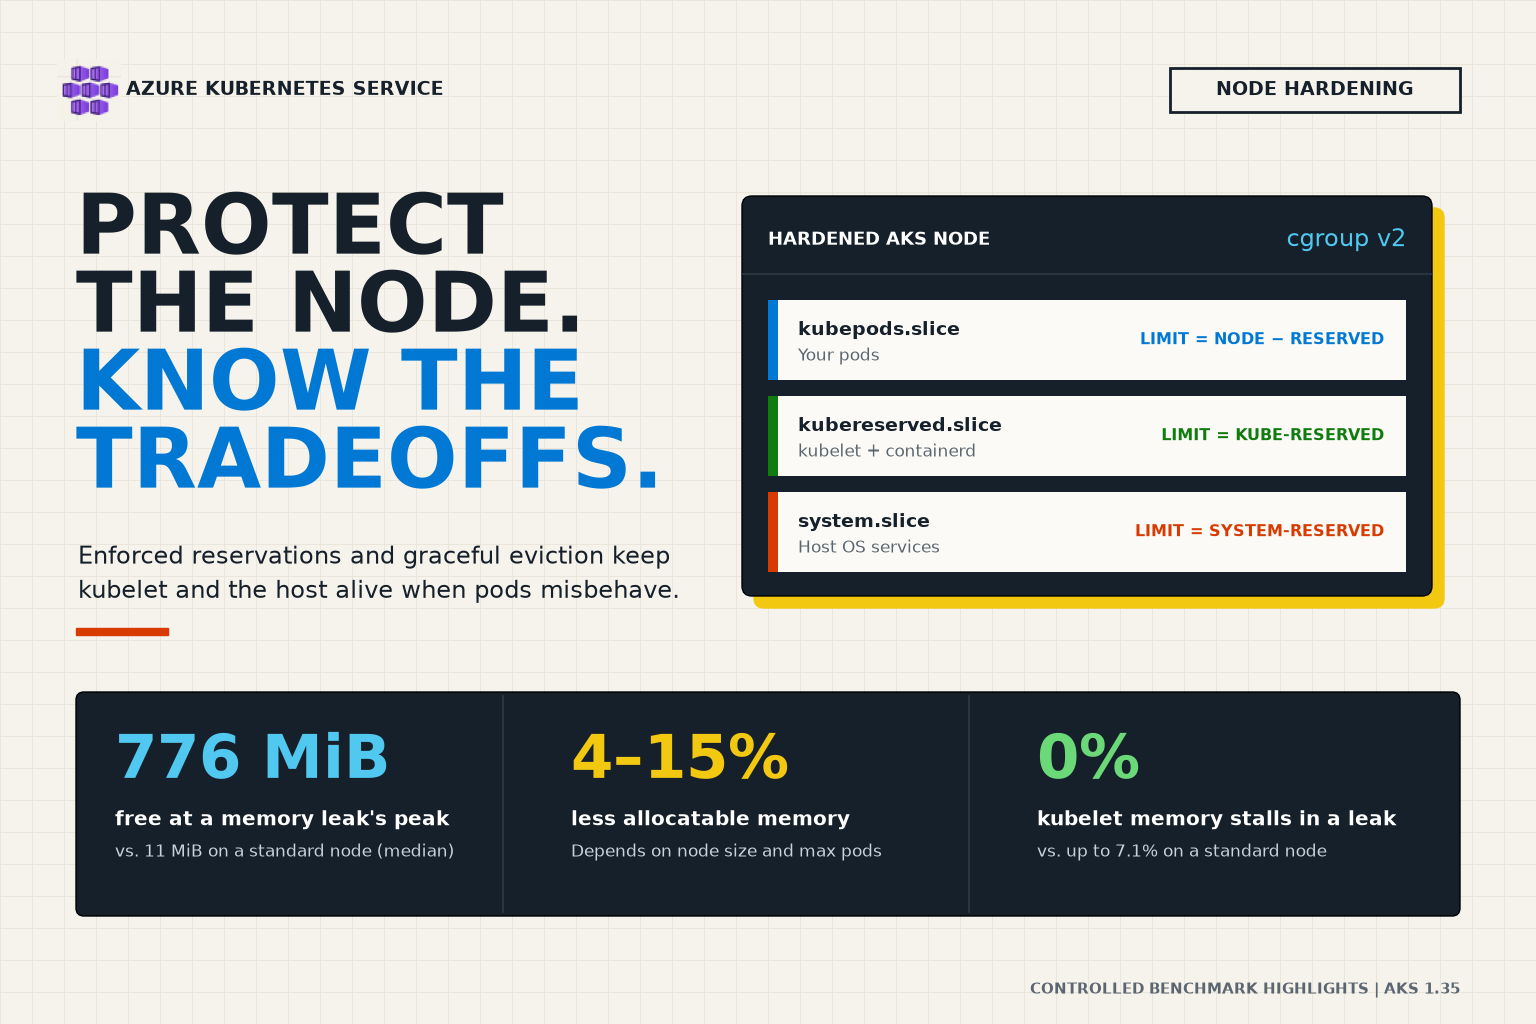
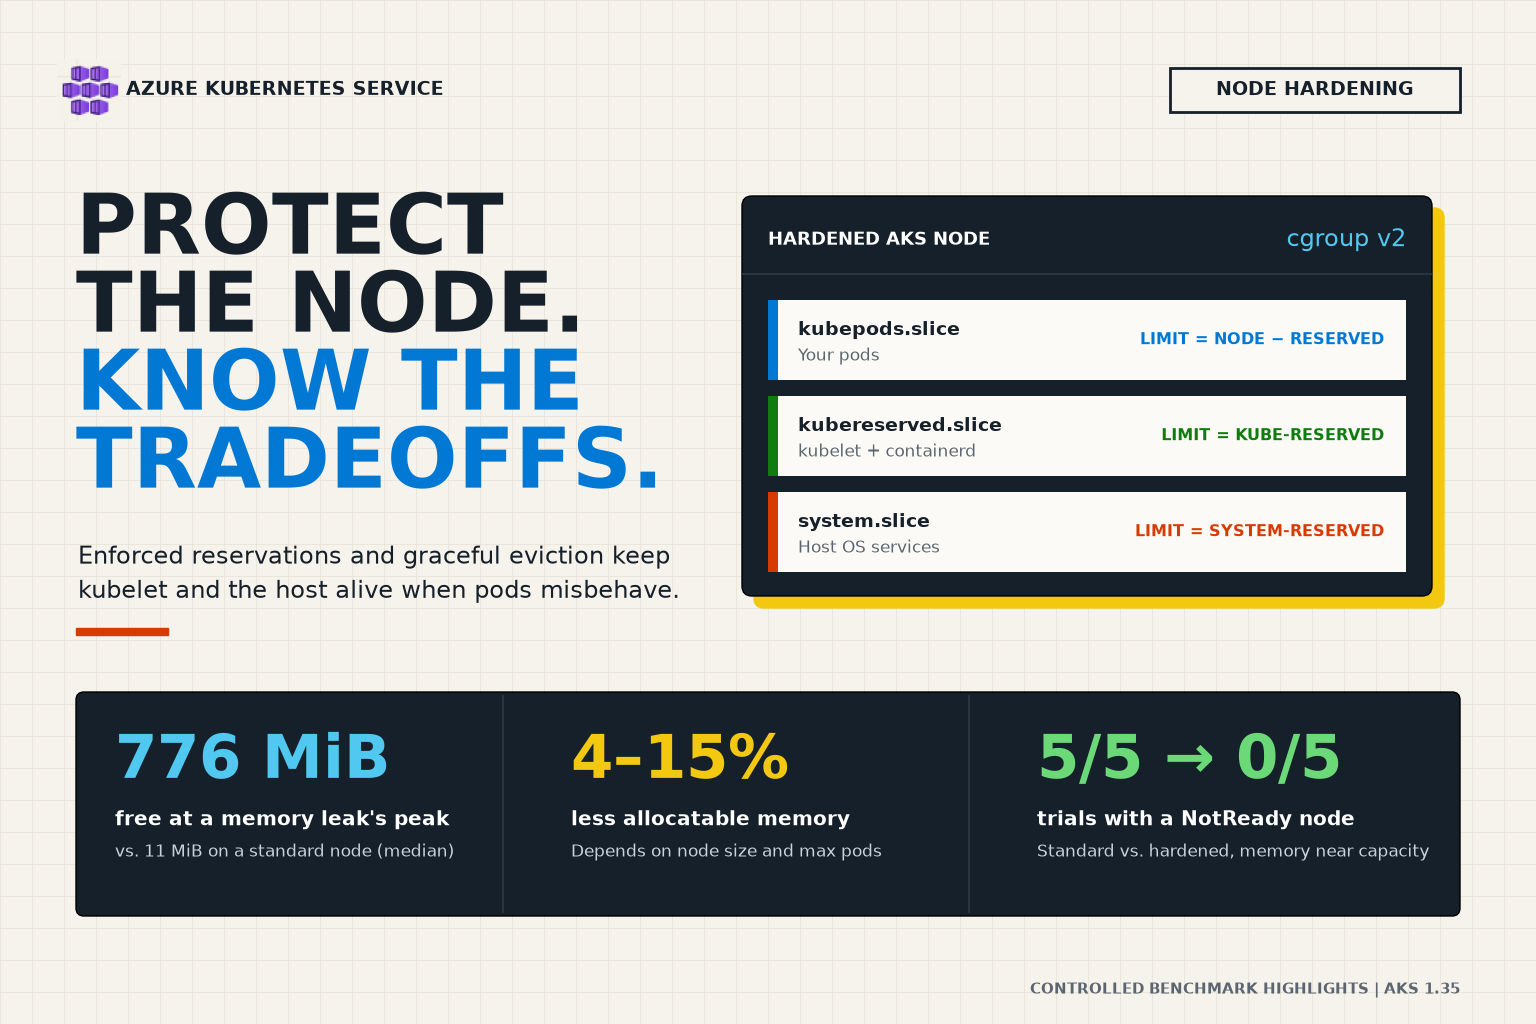
Add memory-held-near-capacity NotReady scenario to Node Hardening post
Standard nodes went NotReady in 5 of 5 trials when pods held memory near capacity; hardened nodes stayed Ready in 5 of 5 and evicted or contained the pods. Adds a timeline chart, results table, and updated hero stat.

Changed region(s): [[0.6562, 0.7188, 0.9375, 0.8438]]

diff --git a/website/blog/2026-10-23-aks-node-hardening/index.md b/website/blog/2026-10-23-aks-node-hardening/index.md
@@ -1,6 +1,6 @@
 ---
 title: "Benchmarking AKS Node Hardening: memory and capacity"
-description: "Benchmarks show how AKS Node Hardening protects nodes from runaway memory, what it costs in allocatable capacity, and what to know about CPU saturation."
+description: "Benchmarks show how AKS Node Hardening keeps nodes Ready under memory pressure, what it costs in allocatable capacity, and what to know about CPU saturation."
 date: 2026-10-23
 authors: ["spencer-libbing"]
 tags:
@@ -14,7 +14,7 @@ When a pod on an Azure Kubernetes Service (AKS) node leaks memory or saturates C
 
 Node Hardening is an AKS preview feature that changes how Linux nodes reserve and protect resources. It enforces kube-reserved and system-reserved capacity with Linux control groups (cgroups), raises the hard memory eviction threshold, and adds soft eviction so the kubelet can remove pods gracefully before a node runs out of memory.
 
-We ran controlled benchmarks on otherwise identical standard and hardened nodes to measure what changes in practice. Node Hardening clearly protected nodes from runaway memory and cost between 4% and 15% of allocatable memory. We also noted that pod operations slowed down on nodes whose CPU was fully saturated.
+We ran controlled benchmarks on otherwise identical standard and hardened nodes to measure what changes in practice. When pods held a node's memory near capacity, the standard node went NotReady in all five trials, while the hardened node stayed Ready and evicted or contained the pods. Node Hardening also protected nodes from a runaway memory leak, and it cost between 4% and 15% of allocatable memory. We also noted that pod operations slowed down on nodes whose CPU was fully saturated.
 
 <!-- truncate -->
 
@@ -26,6 +26,8 @@ We ran controlled benchmarks on otherwise identical standard and hardened nodes 
 
 | Scenario | Standard node | Hardened node | What it means |
 | --- | ---: | ---: | --- |
+| Trials where the node went NotReady while pods held memory near capacity | 5 of 5 | 0 of 5 | The hardened node evicted or contained the pods before the kubelet was starved. |
+| Failed requests to an app on that node during those trials | 33% | 0% | Workloads that stayed within their own limits kept serving traffic. |
 | Lowest available memory during a runaway memory leak | 11 MiB | 776 MiB | The hardened node kept headroom for the kubelet and host services. |
 | How runaway pods were stopped | 5 kernel OOM kills | 3 kubelet evictions, 2 pod-cgroup OOM kills | The kubelet, rather than the kernel's last-resort OOM killer, did most of the work. |
 | Time the kubelet and containerd stalled on memory | up to 7.1% | 0% | Node agents kept running at full speed during memory pressure. |
@@ -47,7 +49,7 @@ For the full list of default values and the settings that you can customize, see
 
 ## How we tested
 
-We compared two otherwise identical AKS 1.35 clusters, one with Node Hardening enabled, on a 4-vCPU, 16 GiB test node. In each five-minute trial, pods without resource limits either leaked memory past the node's capacity or saturated its CPU. We ran five trials of each scenario on each cluster and measured node health, a well-behaved app on the same node, and how quickly new pods started. We also measured allocatable capacity on node sizes from 8 GiB to 64 GiB.
+We compared two otherwise identical AKS 1.35 clusters, one with Node Hardening enabled, on a 4-vCPU, 16 GiB test node. In each five- to seven-minute trial, pods without resource limits held the node's memory near capacity, leaked memory past the node's capacity, or saturated its CPU. We ran five trials of each scenario on each cluster and measured node health, a well-behaved app on the same node, and how quickly new pods started. We also measured allocatable capacity on node sizes from 8 GiB to 64 GiB.
 
 ## What hardening reserves on each node
 
@@ -69,6 +71,28 @@ Every hardened node also reported 100 millicores less allocatable CPU and 1 GiB 
 The largest relative reductions were on the smallest node and on the high-density node. On small nodes, the fixed parts of the reservation are a larger share of memory. On a 32 GiB node with 250 pods, the higher per-pod kube-reserved memory reaches the 25% cap. On a 16 GiB node with 250 pods, both configurations already reach the 25% cap, so the difference is only the system reservation and eviction threshold.
 
 **What this means for you:** Before you enable Node Hardening, check how close your nodes run to their allocatable memory. Workloads that fit on a node today might need a few percent more nodes afterward.
+
+## Memory held near capacity: standard nodes went NotReady
+
+Memory pressure often takes a node down not with a sudden spike, but with workloads that use far more memory than they request and keep the node at the edge of its memory. To reproduce that, pods without memory limits grew until the node had about 50 MiB of memory available and then held there for seven minutes, while another pod read files from disk as a typical app does.
+
+![Available memory and node readiness while pods hold memory near capacity on a standard node and a hardened node](./notready-timeline.png)
+
+| Memory held near capacity, five trials per node | Standard | Hardened |
+| --- | ---: | ---: |
+| Trials where the node went NotReady | 5 of 5 | 0 of 5 |
+| Time until the node went NotReady (median) | 128 s | – |
+| Time the node was NotReady (median) | 298 s | 0 s |
+| Longest gap between kubelet lease renewals (median) | 372 s | 10 s |
+| Failed requests to the well-behaved app (median) | 33% | 0% |
+| Kubelet evictions (median) | 0 | 5 |
+| Kernel OOM kills (median) | 0 | 48, inside the pods' cgroup |
+| Lowest available node memory (median) | 15 MiB | 729 MiB |
+| Peak time the node was stalled on memory (10-second PSI, median) | 69% | 6.7% |
+
+On the standard node, nothing stepped in to stop the pods. The kubelet didn't evict any pods, and the kernel OOM killer didn't act in four of the five trials, because the kernel could keep reclaiming page cache to make room. Instead, the node thrashed, and at its worst it spent about 70% of its time stalled on memory. The kubelet stopped renewing its lease, the node went NotReady, and the well-behaved app on the node failed about a third of its requests until the pods released their memory.
+
+On the hardened node, the `kubepods.slice` limit stopped the pods while the node still had about 700 MiB of memory available. The kernel killed the growing processes inside the pods' cgroup, and the kubelet evicted pods as memory crossed its eviction thresholds. The node stayed Ready in every trial, and the app on the node didn't fail a single request. Only the test workloads were evicted.
 
 ## Runaway memory: hardening kept the node healthy
 
@@ -94,7 +118,7 @@ On the hardened node, two mechanisms acted earlier:
 | Well-behaved app, failed requests in the worst trial | 0.07% | 0% |
 | New pod start time | 1.8 s | 1.8 s |
 
-In every trial, the Guaranteed app kept running on both nodes, and the kubelet only evicted the leaking pods. Neither node became NotReady. The hardened node reported the `MemoryPressure` condition for several minutes after each trial, which includes the kubelet's default five-minute pressure transition period. While that condition is set, the node has the `node.kubernetes.io/memory-pressure` taint, which can keep new pods from being scheduled on it.
+In every runaway-leak trial, the Guaranteed app kept running on both nodes, and the kubelet only evicted the leaking pods. Because the leak grew quickly, the standard node's kernel OOM killer stopped it before the node thrashed long enough to go NotReady. The hardened node reported the `MemoryPressure` condition for several minutes after each trial, which includes the kubelet's default five-minute pressure transition period. While that condition is set, the node has the `node.kubernetes.io/memory-pressure` taint, which can keep new pods from being scheduled on it.
 
 ## CPU saturation: something to note
 
@@ -118,11 +142,11 @@ The well-behaved app, which had its own CPU request, wasn't affected, and no nod
 
 - **The system reservation is a hard limit:** Host services in `system.slice` share a memory limit equal to the system-reserved memory, 300 MiB on our test node. In one of our early validation runs, a firmware update service (`fwupd`) started on a timer and was OOM-killed when it reached that limit. If you run your own agents on nodes as systemd services, such as security or log-forwarding agents, validate their memory use before you rely on Node Hardening.
 - **Process ID reservations are removed:** Hardened nodes don't set the kube-reserved process ID reservation or the `pid.available` hard eviction threshold that standard nodes use.
-- **No node became NotReady in any trial:** Lease renewals stayed at their normal interval on every node, so the differences in this post are about how well the node kept doing its work, not whether it stayed connected.
+- **Hardened nodes never went NotReady:** Across every scenario, hardened nodes renewed their lease at the normal interval. Standard nodes went NotReady only when memory was held near capacity.
 
 ## Recommendations
 
-- **Consider Node Hardening if** your nodes run workloads that can exceed their memory requests, such as caches, JVM applications, or batch jobs, and you've seen kernel OOM kills, evictions of the wrong pods, or unresponsive nodes.
+- **Consider Node Hardening if** your nodes run workloads that can exceed their memory requests, such as caches, JVM applications, or batch jobs, and you've seen nodes go NotReady, kernel OOM kills, evictions of the wrong pods, or unresponsive nodes.
 - **Plan capacity first:** Expect 4% to 15% less allocatable memory, 100 millicores less allocatable CPU, and 1 GiB less ephemeral storage per node.
 - **Keep CPU saturation in mind:** If your nodes regularly run at full CPU, check pod start and rollout times after you enable Node Hardening.
 - **Validate host agents:** Check the memory use of any systemd services that you add to nodes against the system-reserved memory.
@@ -162,7 +186,7 @@ Node Hardening applies to all Linux node pools in the cluster. If you disable it
 
 ## Limitations
 
-- **Synthetic workloads:** The stressors were designed to create sustained memory and CPU pressure. Real workloads grow and burst differently.
+- **Synthetic workloads:** The stressors were designed to create sustained memory and CPU pressure. Real workloads grow and burst differently. For example, a leak that grows quickly can trigger the kernel OOM killer before a standard node goes NotReady, as in the runaway-leak scenario.
 - **One test VM size:** Stress trials ran on one 4-vCPU, 16 GiB node. CPU weights, reservations, and eviction thresholds differ on other node sizes.
 - **Small number of trials:** We ran five trials per scenario on each node. The results were consistent across trials, but they don't capture every condition.
 - **Preview defaults:** Node Hardening is in preview, and default values might change before general availability.
